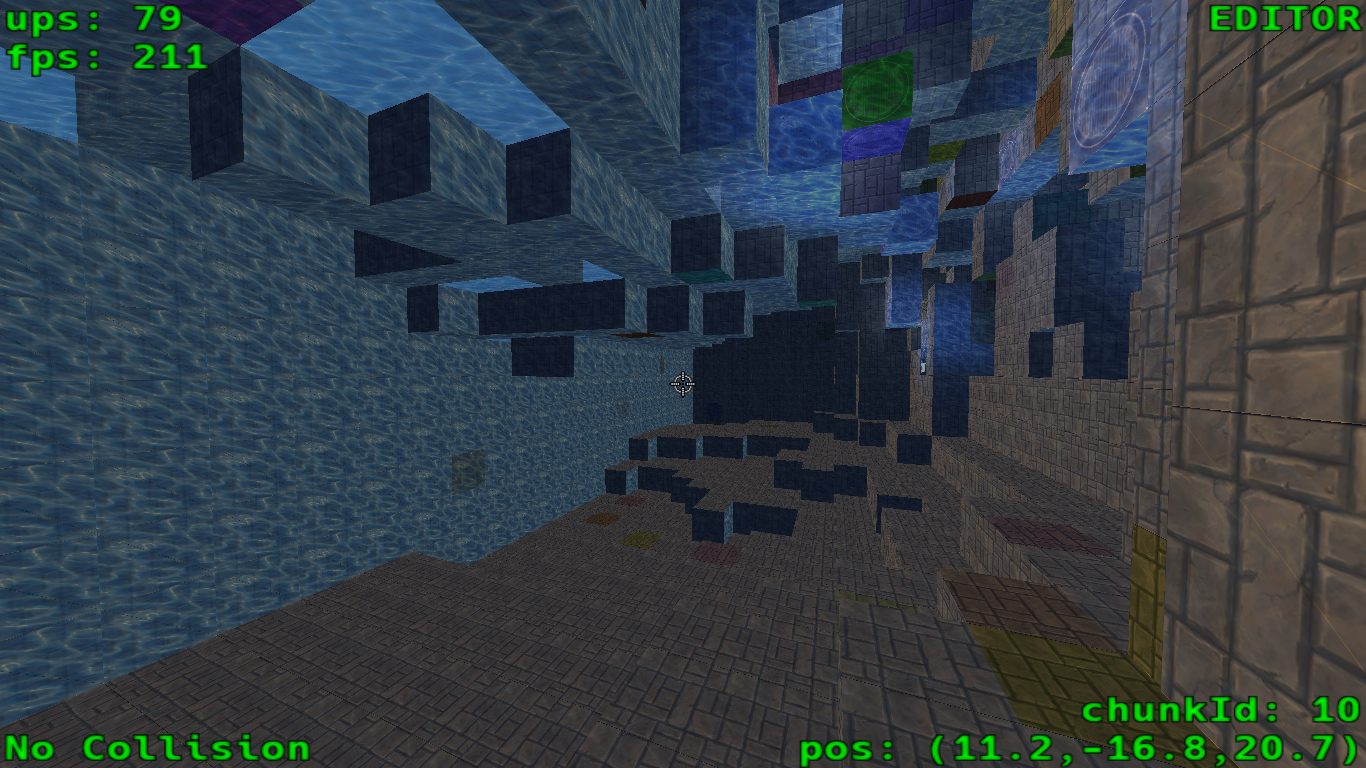
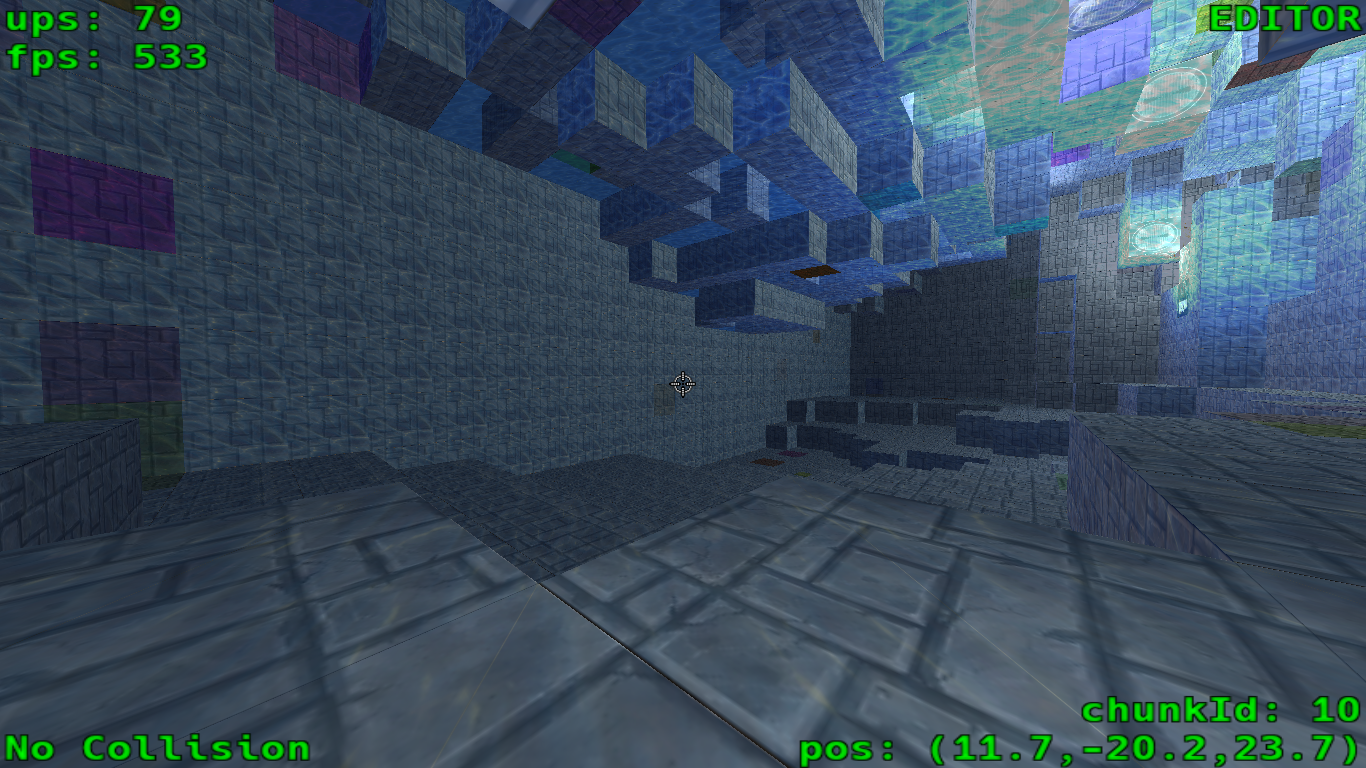
Reducing block light intensity (from 128f to 32f)

diff --git a/src/rs/alexanderstojanovich/evg/models/Chunk.java b/src/rs/alexanderstojanovich/evg/models/Chunk.java
@@ -476,7 +476,7 @@ public class Chunk implements Comparable<Chunk> { // some operations are mutuall
             // update original block with neighbor blocks
             if (solid) {
                 // check if it's light block
-                LightSource lightSource = new LightSource(block.pos, block.primaryColor, 128.0f);
+                LightSource lightSource = new LightSource(block.pos, block.primaryColor, 32.0f);
                 if (block.getTexName().equals("reflc")
                         && !LevelContainer.LIGHT_SOURCES.getLightSrcList().contains(lightSource)) {
                     LevelContainer.LIGHT_SOURCES.getLightSrcList().add(lightSource);
